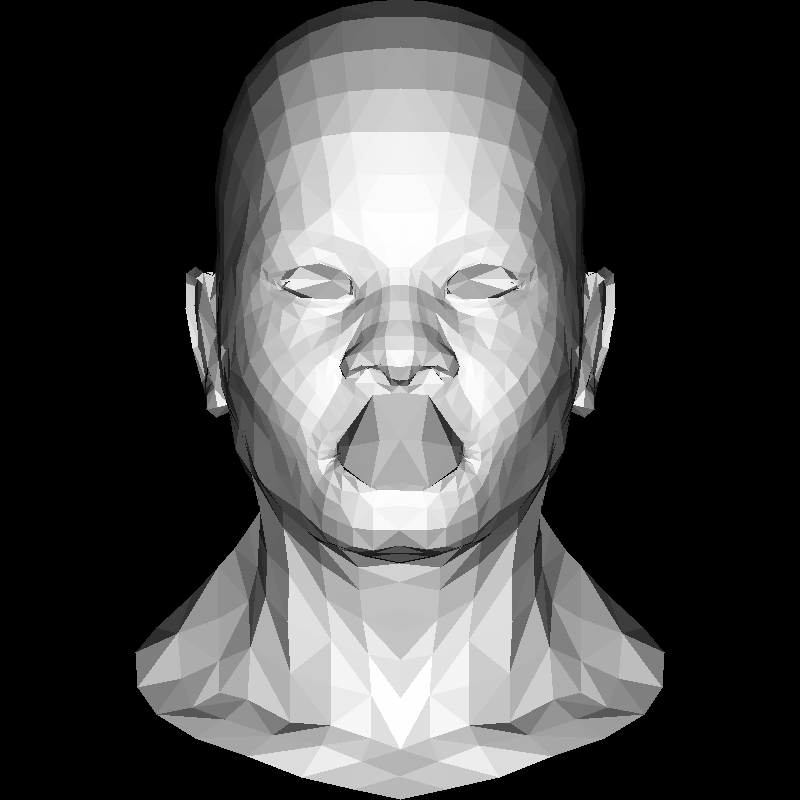
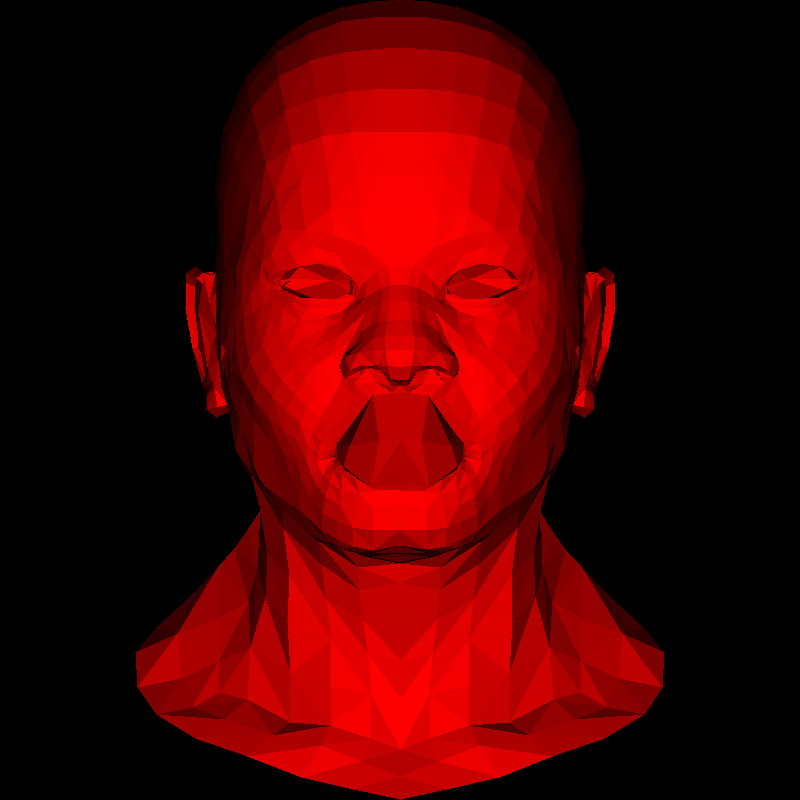
Clean up code and add my own vector library.

diff --git a/main.cpp b/main.cpp
@@ -4,38 +4,33 @@
 #include <cmath>
 #include "tgaimage.h"
 #include "model.h"
-#include "geometry.h"
+#include "vec.h"
 
 using namespace std;
 
 TGAColor white = TGAColor(255, 255, 255, 255);
-const TGAColor red   = TGAColor(255, 0,   0,   255);
-const TGAColor green = TGAColor(0, 255,   0,   255);
+TGAColor red   = TGAColor(255, 0,   0,   255);
+TGAColor green = TGAColor(0, 255,   0,   255);
 constexpr int width = 800;
 constexpr int height = 800;
 
-void bresenham_line(Vec2i t0, Vec2i t1, TGAImage &image, TGAColor color)
+void bresenham_line(vec2i start, vec2i end, TGAImage &image, TGAColor color)
 {
-  auto x0 = t0.x;
-  auto y0 = t0.y;
-  auto x1 = t1.x;
-  auto y1 = t1.y;
-  auto steep = abs(y1 - y0) > abs(x1 - x0);
+  auto steep = abs(end.y - start.y) > abs(end.x - start.x);
   if (steep) {
-    swap(x0, y0);
-    swap(x1, y1);
+    swap(start.x, start.y);
+    swap(end.x, end.y);
   }
-  if (x0 > x1) {
-    swap(x0, x1);
-    swap(y0, y1);
+  if (start.x > start.y) {
+    swap(start, end);
   }
-  auto dx = x1 - x0;
-  auto dy = abs(y1 - y0);
+  auto dx = end.x - start.x;
+  auto dy = abs(end.y - start.y);
   auto derr2 = abs(dy) * 2;
   auto err2 = 0;
-  auto y = y0;
-  auto ystep = y1 > y0 ? 1 : -1;
-  for (int x = x0; x <= x1; x++) {
+  auto y = start.y;
+  auto ystep = end.y > start.y ? 1 : -1;
+  for (int x = start.x; x <= end.x; x++) {
     if (steep) {
       image.set(y, x, color);
     } else {
@@ -53,47 +48,45 @@ void bresenham_line(Vec2i t0, Vec2i t1, TGAImage &image, TGAColor color)
 #define fpart(X) (((double)(X))-(double)ipart(X))
 #define rfpart(X) (1.0-fpart(X))
 
-void wu_line(int x0, int y0, int x1, int y1, TGAImage &image, TGAColor color)
+void wu_line(vec2 start, vec2 end, TGAImage &image, TGAColor color)
 {
-  auto steep = abs(y1 - y0) > abs(x1 - x0);
-
+  auto steep = abs(end.y - start.y) > abs(end.x - start.x);
   if (steep) {
-    swap(x0, y0);
-    swap(x1, y1);
+    swap(start.x, start.y);
+    swap(end.x, end.y);
   }
-  if (x0 > x1) {
-    swap(x0, x1);
-    swap(y0, y1);
+  if (start.x > start.y) {
+    swap(start, end);
   }
 
-  double dx = x1 - x0;
-  double dy = y1 - y0;
-  double gradient = (dx == 0) ? 1 : dy / dx;
+  auto dx = end.x - start.x;
+  auto dy = end.y - start.y;
+  auto gradient = (dx == 0) ? 1.0 : dy / dx;
 
   // Draw the first endpoint.
-  auto xend = round(x0);
-  auto yend = y0 + gradient * (xend - x0);
-  auto xgap = rfpart(x0 + 0.5);
+  auto xend = round(start.x);
+  auto yend = start.y + gradient * (xend - start.x);
+  auto xgap = rfpart(start.x + 0.5);
   auto xpxl1 = xend;
   auto ypxl1 = ipart(yend);
   auto intery = yend + gradient;
   if (steep) {
     image.set(ypxl1, xpxl1, color * rfpart(yend) * xgap);
-    image.set(ypxl1 + 1, xpxl1,  color * fpart(yend) * xgap);
+    image.set(ypxl1 + 1, xpxl1, color * fpart(yend) * xgap);
   } else {
     image.set(xpxl1, ypxl1, color * rfpart(yend) * xgap);
     image.set(xpxl1, ypxl1 + 1, color * fpart(yend) * xgap);
   }
 
   // Draw the other endpoint.
-  xend = round(x1);
-  yend = y1 + gradient * (xend - x1);
-  xgap = fpart(x1 + 0.5);
+  xend = round(end.x);
+  yend = end.y + gradient * (xend - end.x);
+  xgap = fpart(end.x + 0.5);
   auto xpxl2 = xend;
   auto ypxl2 = ipart(yend);
   if (steep) {
     image.set(ypxl2, xpxl2, color * rfpart(yend) * xgap);
-    image.set(ypxl2 + 1, xpxl2,  color * fpart(yend) * xgap);
+    image.set(ypxl2 + 1, xpxl2, color * fpart(yend) * xgap);
   } else {
     image.set(xpxl2, ypxl2, color * rfpart(yend) * xgap);
     image.set(xpxl2, ypxl2 + 1, color * fpart(yend) * xgap);
@@ -115,56 +108,66 @@ void wu_line(int x0, int y0, int x1, int y1, TGAImage &image, TGAColor color)
   }
 }
 
-Vec3f barycentric(vector<Vec2i> pts, Vec2i P) { 
-  Vec3f u = Vec3f(pts[2].x-pts[0].x, pts[1].x-pts[0].x, pts[0].x-P.x) ^ Vec3f(pts[2].y-pts[0].y, pts[1].y-pts[0].y, pts[0].y-P.y); 
-  if (abs(u.z)<1) return Vec3f(-1,1,1); // triangle is degenerate, in this case return smth with negative coordinates 
-  return Vec3f(1.f-(u.x+u.y)/u.z, u.y/u.z, u.x/u.z); 
-} 
+vec3 barycentric(vector<vec2i> pts, vec2i P) {
+  vec3 u = vec3(pts[2].x - pts[0].x,
+                pts[1].x - pts[0].x,
+                pts[0].x  -P.x) ^ vec3(pts[2].y - pts[0].y,
+                                       pts[1].y - pts[0].y,
+                                       pts[0].y - P.y);
 
-void triangle(vector<Vec2i> pts, TGAImage &image, TGAColor color)
-{ 
-  Vec2i bboxmin(image.get_width() - 1, image.get_height() - 1);
-  Vec2i bboxmax(0, 0);
-  Vec2i clamp(image.get_width() - 1, image.get_height() - 1); 
-  for (auto i=0; i<3; i++) { 
-    bboxmin.x = std::max(0, std::min(bboxmin.x, pts[i].x)); 
-    bboxmax.x = std::min(clamp.x, std::max(bboxmax.x, pts[i].x)); 
-    bboxmin.y = std::max(0, std::min(bboxmin.y, pts[i].y)); 
-    bboxmax.y = std::min(clamp.y, std::max(bboxmax.y, pts[i].y)); 
-  } 
-  Vec2i P; 
-  for (P.x=bboxmin.x; P.x<=bboxmax.x; P.x++) { 
-    for (P.y=bboxmin.y; P.y<=bboxmax.y; P.y++) { 
-      Vec3f bc_screen  = barycentric(pts, P); 
-      if (bc_screen.x<0 || bc_screen.y<0 || bc_screen.z<0) continue; 
-      image.set(P.x, P.y, color); 
-    } 
-  } 
+  if (abs(u.z) < 1) {
+    // Triangle is degenerate.
+    return vec3(-1, 1, 1);
+  }
+
+  return vec3(1 - (u.x + u.y) / u.z, u.y / u.z, u.x / u.z);
 }
 
-void line(Vec2i t0, Vec2i t1, TGAImage &image, TGAColor color)
+void triangle(vector<vec2i> pts, TGAImage &image, TGAColor color)
 {
-  wu_line(t0.x, t0.y, t1.x, t1.y, image, color);
+  vec2i bboxmin(image.get_width() - 1, image.get_height() - 1);
+  vec2i bboxmax(0, 0);
+  vec2i clamp(image.get_width() - 1, image.get_height() - 1);
+  for (auto i = 0; i < 3; i++) {
+    bboxmin.x = max(0, min(bboxmin.x, pts[i].x));
+    bboxmax.x = min(clamp.x, max(bboxmax.x, pts[i].x));
+    bboxmin.y = max(0, min(bboxmin.y, pts[i].y));
+    bboxmax.y = min(clamp.y, max(bboxmax.y, pts[i].y));
+  }
+  vec2i P;
+  for (P.x = bboxmin.x; P.x <= bboxmax.x; P.x++) {
+    for (P.y = bboxmin.y; P.y <= bboxmax.y; P.y++) {
+      vec3 bc_screen = barycentric(pts, P);
+      if (bc_screen.x < 0 || bc_screen.y < 0 || bc_screen.z < 0) continue;
+      image.set(P.x, P.y, color);
+    }
+  }
 }
 
-void draw_model(const string filename, TGAImage &image)
+void line(vec2 start, vec2 end, TGAImage &image, TGAColor color)
+{
+  wu_line(start, end, image, color);
+}
+
+void draw_model(const string &filename, TGAImage &image)
 {
   Model model(filename);
-  for (auto i = 0; i < model.nfaces(); i++) { 
-    vector<int> face = model.face(i); 
-    vector<Vec2i> screen_coords{3};
-    vector<Vec3f> world_coords{3};
-    for (int j=0; j<3; j++) { 
-      Vec3f v = model.vert(face[j]); 
-      screen_coords[j] = Vec2i((v.x+1.)*width/2., (v.y+1.)*height/2.); 
+  auto light_dir = vec3(0, 0, -1);
+  for (auto i = 0; i < model.nfaces(); i++) {
+    auto face = model.face(i);
+    vector<vec2i> screen_coords{3};
+    vector<vec3> world_coords{3};
+    for (auto j = 0; j < 3; j++) {
+      auto v = model.vert(face[j]);
+      screen_coords[j] = vec2i((v.x + 1) * width / 2,
+                               (v.y + 1) * height / 2);
       world_coords[j] = v;
-    } 
-    Vec3f n = (world_coords[2] - world_coords[0]) ^ (world_coords[1] - world_coords[0]);
+    }
+    vec3 n = (world_coords[2] - world_coords[0]) ^ (world_coords[1] - world_coords[0]);
     n.normalize();
-    auto light_dir = Vec3f(0, 0, -1);
     auto intensity = n * light_dir;
     if (intensity > 0) {
-      triangle(screen_coords, image, white * intensity);
+      triangle(screen_coords, image, red * intensity);
     }
   }
 }

diff --git a/vec.h b/vec.h
@@ -1,0 +1,90 @@
+#ifndef __VEC_H__
+#define __VEC_H__
+
+#include <cmath>
+
+using namespace std;
+
+template <class T> class Vec3 {
+  public:
+    T x, y, z;
+
+    Vec3() { x = y = z = 0; };
+
+    Vec3(T x_, T y_, T z_)
+    {
+      x = x_;
+      y = y_;
+      z = z_;
+    }
+
+    constexpr T length()
+    {
+      return sqrt(x * x + y * y + z * z);
+    }
+
+    T normalize()
+    {
+      auto l = length();
+      x /= l;
+      y /= l;
+      z /= l;
+      return l;
+    }
+
+    constexpr Vec3<T> operator +(const Vec3<T> &v)
+    {
+      return Vec3<T>(x + v.x, y + v.y, z + v.z);
+    }
+
+    constexpr Vec3<T> operator -(const Vec3<T> &v)
+    {
+      return Vec3<T>(x - v.x, y - v.y, z - v.z);
+    }
+
+    // Scalar product
+    constexpr Vec3<T> operator *(const T &v)
+    {
+      return Vec3<T>(x * v, y * v, z * v);
+    }
+
+    // Cross product
+    constexpr Vec3<T> operator ^(const Vec3<T> &v)
+    {
+      return Vec3<T>(
+          y * v.z - z * v.y,
+          z * v.x - x * v.z,
+          x * v.y - y * v.x);
+    }
+
+    // Dot product
+    constexpr T operator *(const Vec3<T> &v)
+    {
+      return x * v.x + y * v.y + z * v.z;
+    }
+
+    constexpr Vec3<T> operator /(const T &v)
+    {
+      return Vec3<T>(x / v, y / v, z / v);
+    }
+};
+
+template <class T> class Vec2 {
+  public:
+    T x, y;
+
+    Vec2() { x = y = 0; }
+
+    Vec2(T x_, T y_)
+    {
+      x = x_;
+      y = y_;
+    }
+};
+
+typedef Vec3<double> vec3;
+typedef Vec2<double> vec2;
+typedef Vec3<int> vec3i;
+typedef Vec2<int> vec2i;
+
+#endif //__VEC_H__

diff --git a/model.cpp b/model.cpp
@@ -19,8 +19,10 @@ Model::Model(const string filename) : verts_(), faces_() {
         char trash;
         if (!line.compare(0, 2, "v ")) {
             iss >> trash;
-            Vec3f v;
-            for (int i=0;i<3;i++) iss >> v.raw[i];
+            vec3 v;
+            iss >> v.x;
+            iss >> v.y;
+            iss >> v.z;
             verts_.push_back(v);
         } else if (!line.compare(0, 2, "f ")) {
             vector<int> f;
@@ -51,7 +53,7 @@ vector<int> Model::face(int idx) {
     return faces_[idx];
 }
 
-Vec3f Model::vert(int i) {
+vec3 Model::vert(int i) {
     return verts_[i];
 }
 

diff --git a/model.h b/model.h
@@ -3,20 +3,20 @@
 
 #include <string>
 #include <vector>
-#include "geometry.h"
+#include "vec.h"
 
 using namespace std;
 
 class Model {
 private:
-	vector<Vec3f> verts_;
+	vector<vec3> verts_;
 	vector<vector<int> > faces_;
 public:
 	Model(const string filename);
 	~Model();
 	int nverts();
 	int nfaces();
-	Vec3f vert(int i);
+	vec3 vert(int i);
 	vector<int> face(int idx);
 };
 
